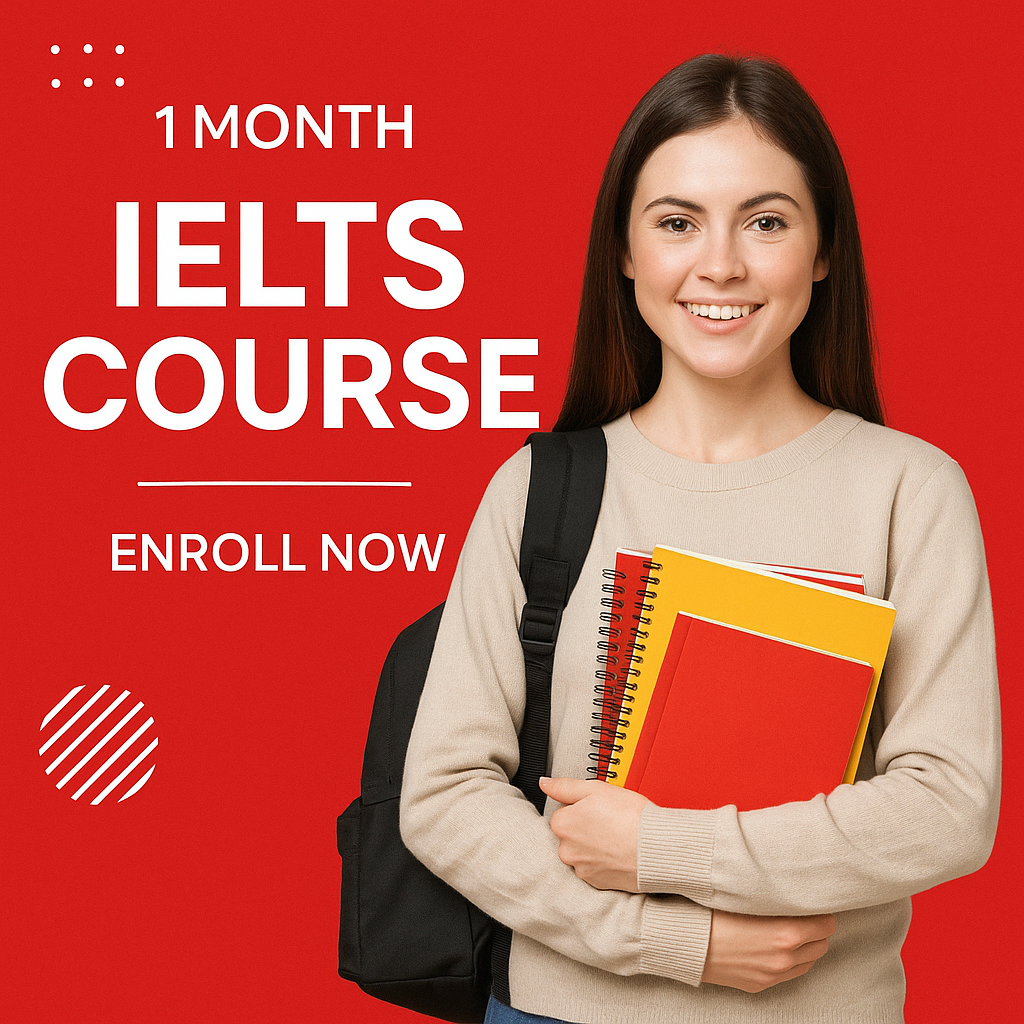
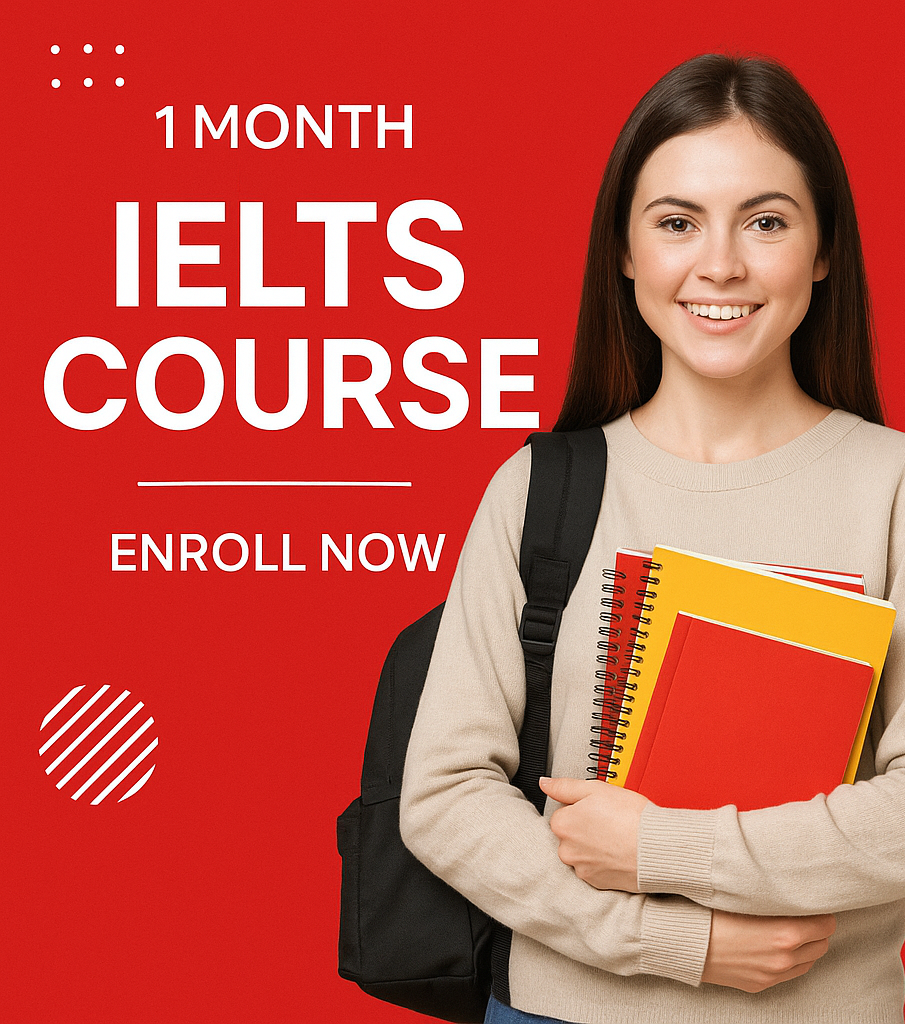
done

diff --git a/client/src/components/In.jsx b/client/src/components/In.jsx
@@ -181,9 +181,9 @@ const NAATIandIELTSCourses = () => {
                     <motion.img
                       src={course.image}
                       alt={course.title}
-                      width="400"
+                      width="570"
                       height="400"
-                      className="w-full h-[400px] object-cover"
+                      className="w-[550px] h-[570px] object-cover"
                       whileHover={{ scale: 1.2, rotate: 2 }}
                       transition={{ duration: 0.9, ease: [0.68, -0.55, 0.265, 1.55] }}
                     />
